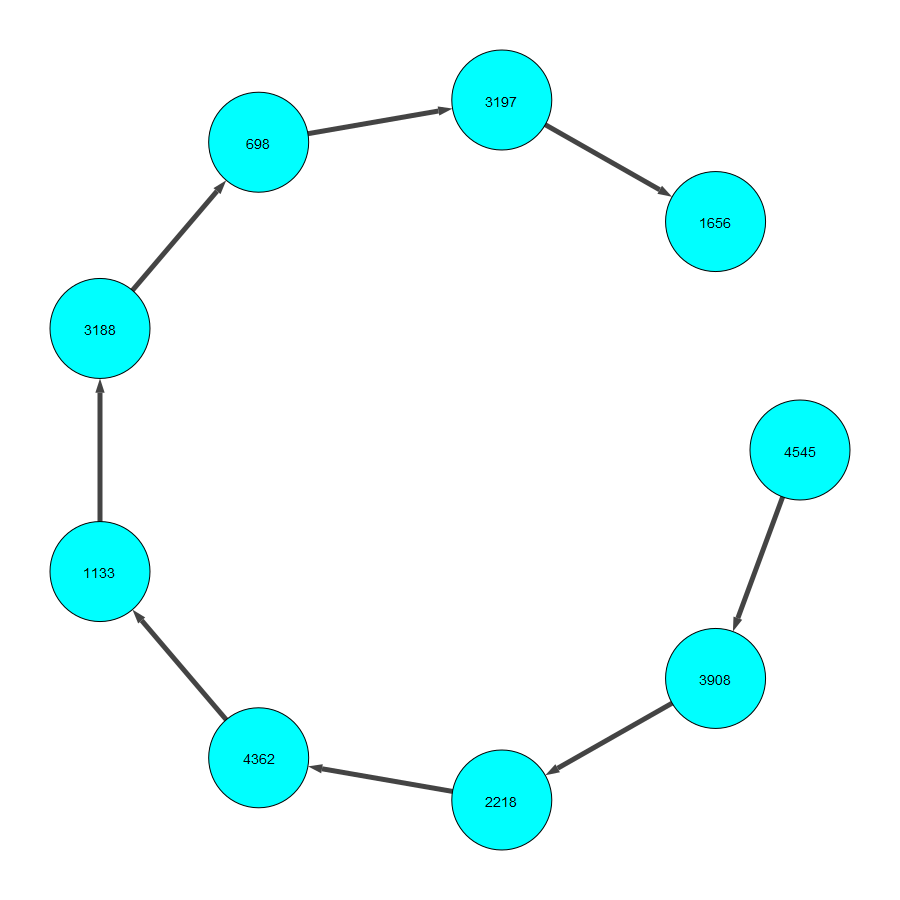
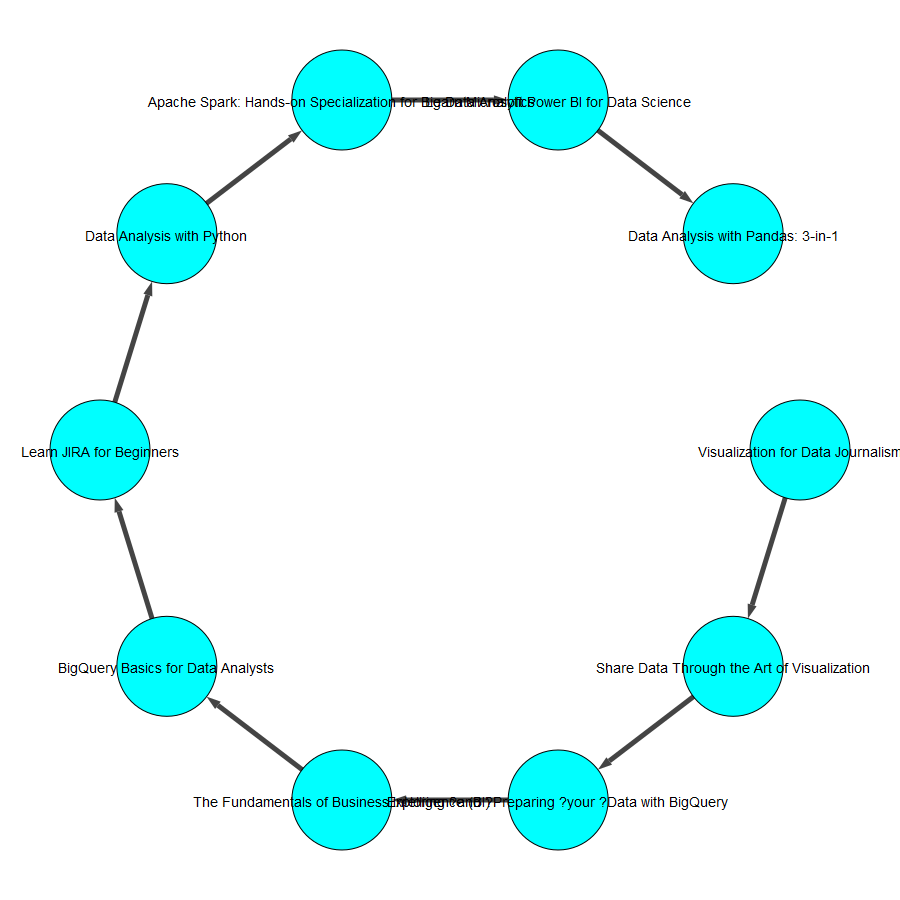
update igraph visualize by course name

Changed region(s): [[0.0311, 0.0311, 0.9644, 0.9644], [0.7778, 0.4978, 1.0, 0.5289]]

diff --git a/services/user_service.py b/services/user_service.py
@@ -63,10 +63,24 @@ def get_learning_path(user_id):
     for path in lb:
         element = {}
         element["path"] = path
-        igraph_service.visualize_learning_path(path, counter)
+        igraph_service.visualize_learning_path(get_course_name_by_id(path), counter)
         element["visualization"] = f'/static/learning-path-{counter}.png'
         result.append(element.copy())
         counter += 1
     delete_user_need_lo(user_id)
 
     return result
+
+
+def map_list_dict_to_list(dict):
+    return dict.get('name')
+
+
+def get_list_name(list_dict):
+    return list(map(map_list_dict_to_list, list_dict))
+
+
+def get_course_name_by_id(set_course):
+    list_name = graph.run(query_get_course_name_by_id(set_course)).data()
+    list_name = get_list_name(list_name)
+    return list_name

diff --git a/utilities/query_for_services.py b/utilities/query_for_services.py
@@ -73,3 +73,10 @@ def query_delete_relationship_user_need_lo(user_id):
     return 'match (u:User)-[r]->(lo) ' \
            f'where id(u) = {user_id} and type(r) =~"NEED_.*" ' \
            'delete r'
+
+
+def query_get_course_name_by_id(set_course):
+    return f'with {set_course} as list ' \
+           f'match (c:Course) ' \
+           f'where id(c) in list ' \
+           f'return c.crsName as name'

diff --git a/constants/algorithm_constants.py b/constants/algorithm_constants.py
@@ -3,7 +3,7 @@ class AlgorithmConstant:
     BETA = 1
     LAMBDA = 1
     DELTA = 1
-    MUY = 2
+    MUY = 1
 
     F1 = 1
     F2 = 1
